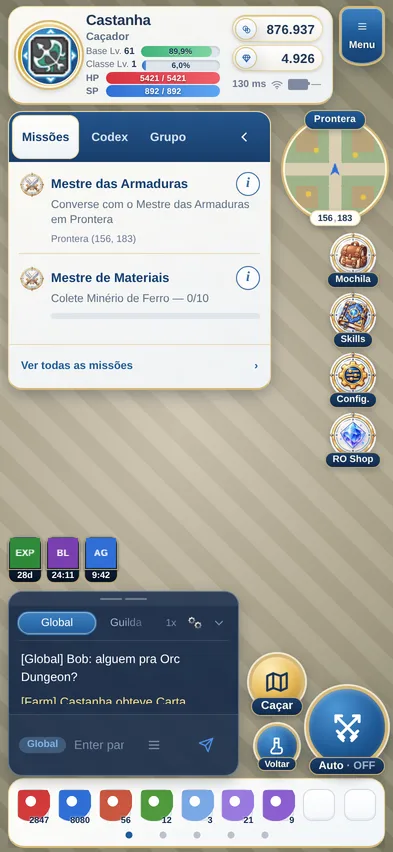
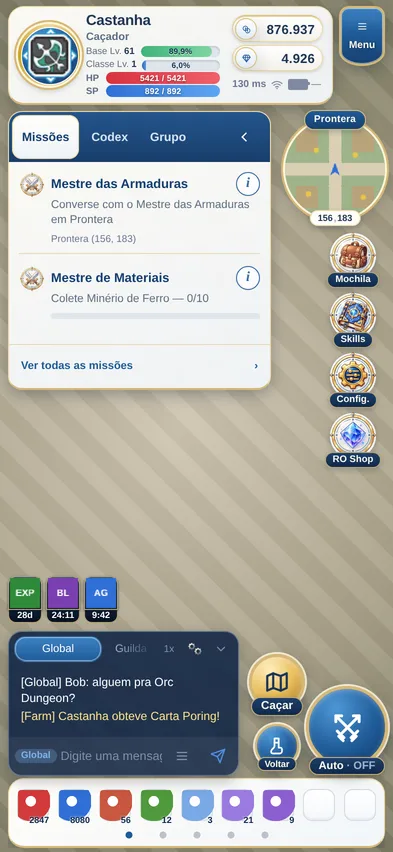
feat(hud-premium): chat enxuto
Pedido do dono: menos informacao e menos espacamento no chat. Na camada
premium: sem a faixa de arrasto, as alcas de largura e as duas linhas
divisorias; abas e barra de digitar mais baixas, botoes desenhando 24-32px
com alvo de 44 pelo `::before`; log com menos vao entre as linhas; o convite
"Digite uma mensagem..." no lugar do "Enter para digitar" (o dedo nao tem
Enter). Posicao e largura fixas (`!important`) para uma posicao arrastada na
HUD de antes nao jogar o chat em cima do grupo de acao.

Claude-Session: https://claude.ai/code/session_01BjZ8PKyUsmjDUCmrES4Ep5

Changed region(s): [[0.0, 0.6103, 0.6107, 0.9155]]

diff --git a/src/UI/HudPremium/componentes/ChatBox.css b/src/UI/HudPremium/componentes/ChatBox.css
@@ -17,25 +17,8 @@
 	--chat-bg: var(--m-chat-fundo, rgba(19, 39, 70, 0.9));
 	--chat-border: var(--m-chat-borda, rgba(167, 189, 207, 0.45));
 	--cb-altura: 54px;
-	left: calc(var(--safe-esq, 0px) + var(--m-margem, 8px));
-	bottom: calc(var(--m-acima-dos-atalhos, 84px) + var(--teclado-altura, 0px));
-	width: min(
-		300px,
-		calc(
-			100vw - var(--safe-esq, 0px) - var(--safe-dir, 0px) - 2 * var(--m-margem, 8px) -
-				var(--m-coluna-de-caca, 120px) - 10px
-		)
-	);
 	border-radius: 14px;
 	box-shadow: var(--m-sombra);
-}
-
-/* Os controles (tamanho, config, recolher) desenham 22px e tocavam em 34
-   (`inset: -6px`): no piso de 44 do pacote, o alvo cresce mais 5px por lado.
-   Os vizinhos ficam a 2px - as areas se sobrepoem, e no vao quem vence e o
-   botao de cima na ordem do DOM, o que e o que um dedo no meio espera. */
-.ri-premium #chatbox .cb-controles button::before {
-	inset: -11px;
 }
 
 /* No celular baixo (o SE no Safari, ~375x553, e o 320x568) a coluna nao
@@ -51,4 +34,114 @@
 	background: linear-gradient(180deg, var(--m-azul-claro), var(--m-azul));
 	color: #ffffff;
 	box-shadow: inset 0 0 0 1px rgba(255, 246, 220, 0.45);
+}
+
+/* ═══════════════════════════════════════════════════════════════════════
+   O CHAT ENXUTO (pedido do dono, 15/10/2026): *"tem muita informacao e
+   espacamentos que podiam ser reduzidos"*.
+
+   O QUE SAI, E POR QUE:
+     - a faixa de ARRASTO (os dois tracinhos) e as alcas de largura: na HUD
+       premium o chat tem lugar fixo, entre a barra de atalhos e o grupo de
+       acao. Arrastado, ele cairia em cima do Cacar. A posicao e a largura
+       ficam com `!important` pelo mesmo motivo: um jogador que arrastou o chat
+       na HUD de antes traz a posicao gravada (inline) e ela venceria;
+     - as duas LINHAS DIVISORIAS: o fundo do log ja separa as faixas.
+
+   O QUE ENCOLHE: a faixa das abas e a barra de digitar perdem o respiro, e os
+   botoes desenham menor - o ALVO continua de 44px pelo `::before` (o mesmo
+   recurso do Common.css). A alca de ALTURA (a borda de cima) fica: e por ela,
+   e pelo "1x", que o jogador aumenta o log.
+   ═══════════════════════════════════════════════════════════════════════ */
+
+.ri-premium #chatbox {
+	left: calc(var(--safe-esq, 0px) + var(--m-margem, 8px)) !important;
+	bottom: calc(
+		var(--m-acima-dos-atalhos, 84px) * (1 - var(--teclado-aberto, 0)) + 6px * var(--teclado-aberto, 0) +
+			var(--teclado-altura, 0px)
+	) !important;
+	width: min(
+		300px,
+		calc(
+			100vw - var(--safe-esq, 0px) - var(--safe-dir, 0px) - 2 * var(--m-margem, 8px) -
+				var(--m-coluna-de-caca, 120px) - 10px
+		)
+	) !important;
+}
+
+.ri-premium #chatbox .cb-arrasto,
+.ri-premium #chatbox .cb-alca-direita,
+.ri-premium #chatbox .cb-alca-canto,
+.ri-premium #chatbox .cb-divisor {
+	display: none;
+}
+
+.ri-premium #chatbox .cb-topo {
+	padding: 4px 5px 2px;
+	gap: 2px;
+}
+
+.ri-premium #chatbox .cb-aba {
+	height: 24px;
+	padding: 0 8px;
+	font-size: 11px;
+}
+
+.ri-premium #chatbox .cb-controles button {
+	width: 24px;
+	height: 24px;
+}
+
+/* Os controles (tamanho, config, recolher) desenham 24px e tocam em 44: os
+   vizinhos ficam a 2px, as areas se sobrepoem, e no vao quem vence e o botao
+   de cima na ordem do DOM - o que um dedo no meio espera. */
+.ri-premium #chatbox .cb-controles button::before {
+	inset: -10px;
+}
+
+/* A barra de digitar: uma linha, sem o respiro de 8px por lado. */
+.ri-premium #chatbox .input {
+	gap: 4px;
+	padding: 3px 4px 3px 6px;
+	border-top: 0;
+	background: rgba(255, 255, 255, 0.06);
+}
+
+.ri-premium #chatbox .input .message {
+	padding: 7px 0;
+	font-size: 12.5px;
+}
+
+/* O dedo nao tem Enter: o convite e o do mockup. */
+.ri-premium #chatbox .input .message:empty::before {
+	content: 'Digite uma mensagem…';
+}
+
+.ri-premium #chatbox .cb-destino {
+	padding: 2px 6px;
+	font-size: 9.5px;
+}
+
+.ri-premium #chatbox .input .filter,
+.ri-premium #chatbox .input .cb-enviar {
+	position: relative;
+	min-width: 32px;
+	min-height: 32px;
+}
+
+.ri-premium #chatbox .input .filter::before,
+.ri-premium #chatbox .input .cb-enviar::before {
+	content: '';
+	position: absolute;
+	inset: -6px;
+}
+
+/* O log: menos respiro entre as linhas (eram 7px de vao) e a letra um passo
+   abaixo - cabem mais mensagens nas mesmas tres linhas de altura. */
+.ri-premium #chatbox .content {
+	gap: 2px;
+	padding-top: 2px;
+	padding-bottom: 2px;
+	font-size: 12px;
+	line-height: 1.35;
 }
